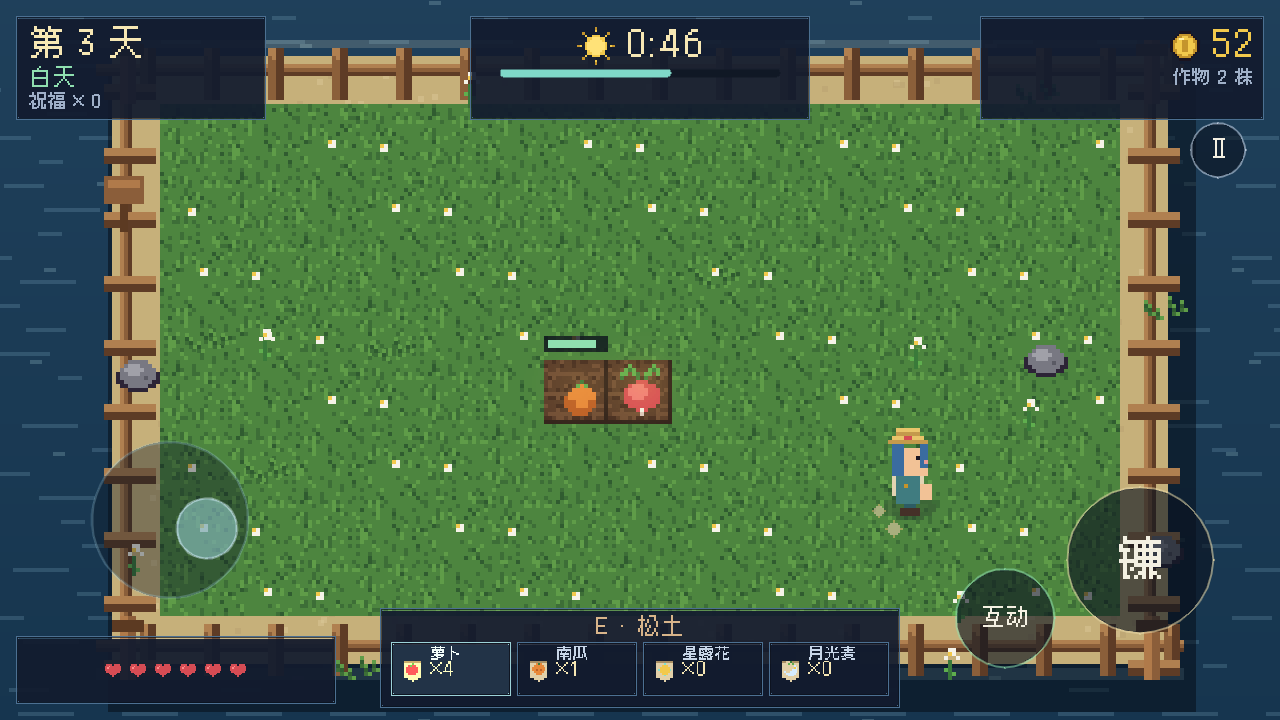
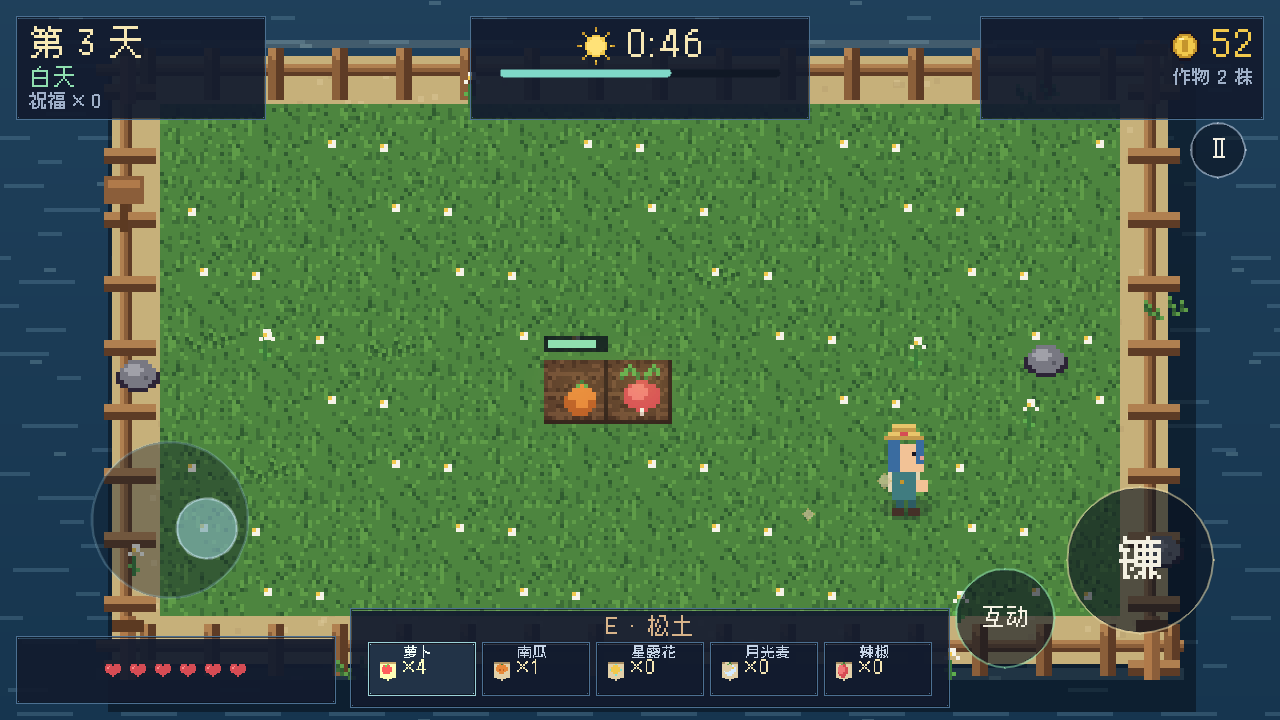
update 03: chili crop and five-slot seed belt

Changed region(s): [[0.25, 0.825, 0.75, 0.9778], [0.6875, 0.5806, 0.75, 0.7639]]

diff --git a/tools/gen_art.py b/tools/gen_art.py
@@ -662,6 +662,48 @@ def crop_star(stage: int) -> Image.Image:
     return im
 
 
+def crop_chili(stage: int) -> Image.Image:
+    bush = (79, 154, 74, 255)
+    dark = (58, 115, 57, 255)
+    light = (122, 186, 96, 255)
+    red = (214, 76, 84, 255)
+    red2 = (168, 48, 62, 255)
+    white = (245, 243, 232, 255)
+    im, d = new(16, 16)
+    if stage == 0:
+        px(d, 7, 12, dark)
+        px(d, 8, 11, bush)
+        px(d, 6, 11, light)
+        px(d, 9, 12, light)
+    elif stage == 1:
+        disc(d, 8, 11, 4, 3, dark)
+        disc(d, 8, 10, 3.5, 2.5, bush)
+        px(d, 6, 8, light)
+        px(d, 10, 9, light)
+        px(d, 5, 11, light)
+    elif stage == 2:
+        disc(d, 8, 10, 5, 4, dark)
+        disc(d, 8, 9.5, 4.5, 3.5, bush)
+        for x, y in ((4, 8), (12, 8), (8, 6), (5, 12), (11, 12)):
+            px(d, x, y, light)
+        for x, y in ((6, 7), (10, 6), (9, 11)):
+            px(d, x, y, white)
+            px(d, x + 1, y, (232, 226, 170, 255))
+    else:
+        disc(d, 8, 9, 5.5, 4.5, dark)
+        disc(d, 8, 8.5, 4.5, 3.5, bush)
+        for x, y in ((3, 9), (13, 9), (8, 5), (4, 13), (12, 13)):
+            px(d, x, y, light)
+        # hanging chilies
+        for x, y in ((5, 10), (9, 11), (11, 9)):
+            box(d, x, y, x + 1, y + 3, red)
+            px(d, x, y + 1, (240, 120, 120, 255))
+            px(d, x + 1, y + 3, red2)
+            px(d, x, y - 1, dark)
+        px(d, 7, 4, white)
+    return im
+
+
 def crop_moonwheat(stage: int) -> Image.Image:
     stem = (132, 172, 154, 255)
     leaf = (164, 208, 182, 255)
@@ -794,7 +836,8 @@ def seed_icon(kind: str) -> Image.Image:
     paper = (226, 208, 168, 255)
     d.polygon([(4, 4), (12, 4), (12, 12), (8, 14), (4, 12)], fill=paper)
     d.line([(4, 4), (12, 4)], fill=(168, 142, 100, 255))
-    col = {"radish": C["red"], "pumpkin": C["orange"], "star": C["cyan"], "moon": C["cyan"]}[kind]
+    col = {"radish": C["red"], "pumpkin": C["orange"], "star": C["cyan"],
+           "moon": C["cyan"], "chili": C["red"]}[kind]
     if kind == "radish":
         disc(d, 8, 8, 2.5, 2, col)
         px(d, 8, 5, C["green"])
@@ -811,6 +854,12 @@ def seed_icon(kind: str) -> Image.Image:
         px(d, 7, 5, C["green"])
         px(d, 9, 5, C["green"])
         px(d, 10, 7, C["gold"])
+    elif kind == "chili":
+        disc(d, 8, 9, 2.5, 3.5, col)
+        disc(d, 7, 8, 1.5, 2, (240, 120, 120, 255))
+        px(d, 8, 4, C["green2"])
+        px(d, 7, 5, C["green"])
+        px(d, 9, 5, C["green"])
     else:
         disc(d, 8, 8, 2, 2, C["gold"])
         for dx, dy in ((0, -3), (3, 0), (0, 3), (-3, 0)):
@@ -1184,6 +1233,7 @@ def main() -> None:
         save(crop_pumpkin(i), "crops", f"pumpkin_{i}.png")
         save(crop_star(i), "crops", f"star_{i}.png")
         save(crop_moonwheat(i), "crops", f"moonwheat_{i}.png")
+        save(crop_chili(i), "crops", f"chili_{i}.png")
     save(crop_dead(), "crops", "dead.png")
     # ui
     save(panel(False), "ui", "panel.png")
@@ -1194,7 +1244,7 @@ def main() -> None:
     save(coin(), "ui", "coin.png")
     save(sun_icon(), "ui", "sun.png")
     save(moon_icon(), "ui", "moon.png")
-    for k in ("radish", "pumpkin", "star", "moon"):
+    for k in ("radish", "pumpkin", "star", "moon", "chili"):
         save(seed_icon(k), "ui", f"seed_{k}.png")
     for k in ("hoe", "can", "scythe", "clock"):
         save(tool_icon(k), "ui", f"icon_{k}.png")

diff --git a/docs/updates20.md b/docs/updates20.md
@@ -9,7 +9,7 @@
 
 - [x] 01. 手机震动反馈 + 切后台自动暂停 + 震动开关
 - [x] 02. 农事 QoL：种子用完自动切换、种子数量提示、互动提示优化
-- [ ] 03. 第 5 种作物「辣椒」+ 5 格种子栏
+- [x] 03. 第 5 种作物「辣椒」+ 5 格种子栏
 - [ ] 04. 金色作物变异（小概率 3 倍售价，带光效）
 
 ## v1.4.0 — 战斗与天气
